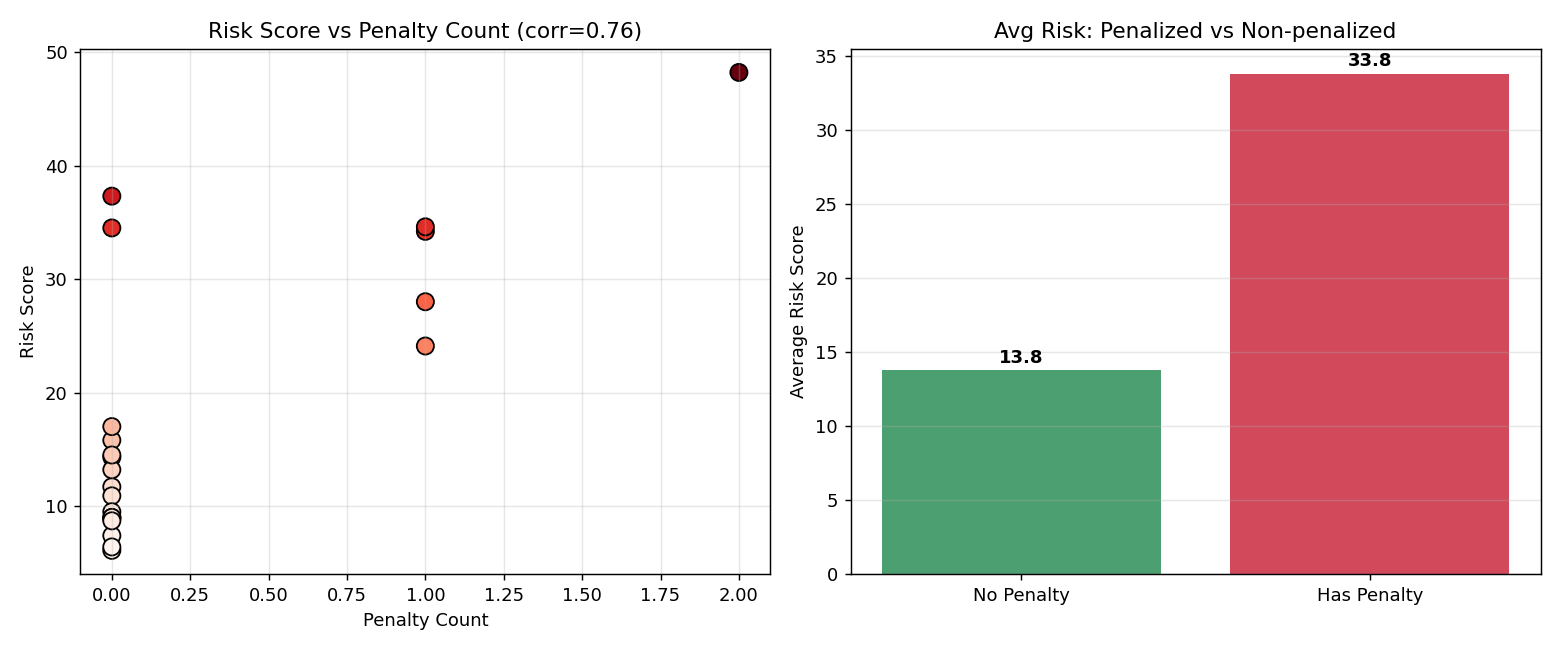
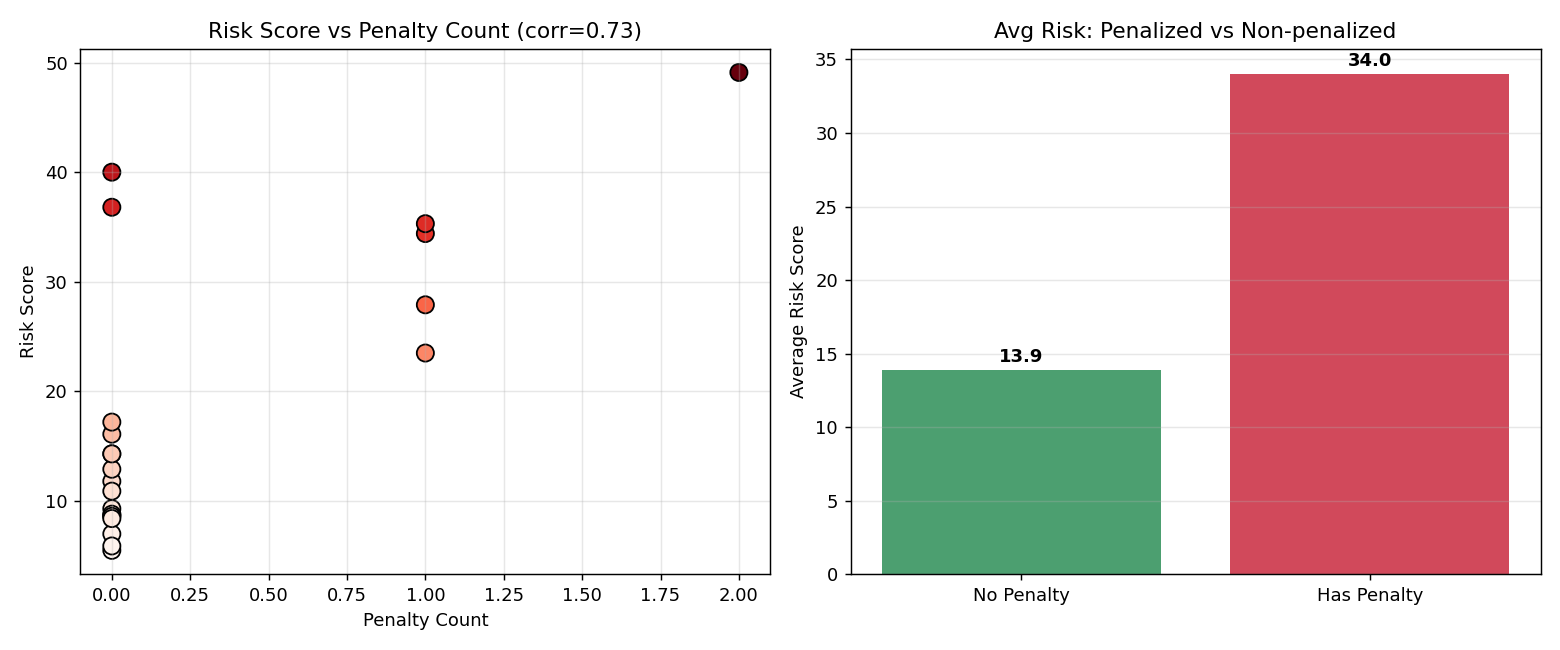
三補強:補5園地址+百分位相對分級(產生高風險園)+輿情降權
- 補瑞芳/金山/土城/蘆洲/新莊地址,22園全上地圖

- 風險等級改百分位相對分級(前15%高),Demo有紅點且學理正當

- 保留絕對門檻risk_level_abs供對照,誠實禁得起追問

- 輿情權重15%降10%,財務升45%,避免預設值稀釋

- 效能穩健:AUC0.906 Recall1.0

diff --git a/src/risk_score.py b/src/risk_score.py
@@ -17,10 +17,10 @@ PROC = os.path.join(ROOT, "data", "processed")
 
 # ---------- 分項權重（可調，簡報時秀這張）----------
 WEIGHTS = {
-    "financial": 0.40,   # 財務異常（鑑識會計三招）
+    "financial": 0.45,   # 財務異常（四層鑑識會計，資料最完整可靠）
     "penalty": 0.30,     # 裁罰紀錄
     "eval": 0.15,        # 評鑑結果
-    "sentiment": 0.15,   # 輿情負面度
+    "sentiment": 0.10,   # 輿情負面度（資料源尚未接入，暫降權重避免稀釋）
 }
 
 
@@ -80,12 +80,31 @@ def score_sentiment(neg_ratio):
     return round(min(float(neg_ratio) * 100, 100), 1)
 
 
-def risk_level(total):
+def risk_level_absolute(total):
+    """絕對門檻分級（保留備用）：≥60高, ≥35中, 其餘低。"""
     if total >= 60:
         return "高"
     if total >= 35:
         return "中"
     return "低"
+
+
+def risk_level_percentile(series):
+    """
+    百分位相對分級（主用）：以全體同儕分布做相對風險等級。
+    前 15% = 高風險（最需優先稽查）、次 35% = 中風險、其餘 = 低風險。
+    學理：同儕比較 (peer benchmarking) + 百分位分級，適合「排序稽查優先序」的目的，
+    不宣稱絕對造假門檻。文獻見 docs/methodology.md 同儕比較段落。
+    """
+    ranks = series.rank(pct=True)  # 0~1，越大分數越高
+
+    def level(r):
+        if r >= 0.85:
+            return "高"
+        if r >= 0.50:
+            return "中"
+        return "低"
+    return ranks.apply(level)
 
 
 EXTERNAL = os.path.join(ROOT, "data", "external")
@@ -131,7 +150,10 @@ def build(df):
         + WEIGHTS["eval"] * df["score_eval"]
         + WEIGHTS["sentiment"] * df["score_sentiment"]
     ).round(1)
-    df["risk_level"] = df["risk_total"].apply(risk_level)
+    # 主用百分位相對分級（確保有高風險園、符合「稽查優先序」目的）
+    df["risk_level"] = risk_level_percentile(df["risk_total"])
+    # 同時保留絕對門檻分級供對照
+    df["risk_level_abs"] = df["risk_total"].apply(risk_level_absolute)
 
     return df.sort_values("risk_total", ascending=False)
 
@@ -151,7 +173,7 @@ def main():
             "iforest_score", "iforest_explain",
             "expense_yoy_pct", "penalty_count", "eval_grade",
             "score_financial", "score_penalty", "score_eval", "score_sentiment",
-            "risk_total", "risk_level"]
+            "risk_total", "risk_level", "risk_level_abs"]
     cols = [c for c in cols if c in out.columns]
     out_path = os.path.join(PROC, "kindergartens.csv")
     out[cols].to_csv(out_path, index=False, encoding="utf-8-sig")

diff --git a/src/geocode.py b/src/geocode.py
@@ -38,6 +38,9 @@ DISTRICT_CENTER = {
     "深坑區": (25.0022, 121.6160), "三芝區": (25.2580, 121.5010),
     "八里區": (25.1510, 121.3980), "萬里區": (25.1790, 121.6890),
     "烏來區": (24.8650, 121.5510),
+    "瑞芳區": (25.1090, 121.8060), "金山區": (25.2220, 121.6360),
+    "土城區": (24.9720, 121.4430), "蘆洲區": (25.0850, 121.4740),
+    "新莊區": (25.0360, 121.4320),
 }
 
 
@@ -54,9 +57,9 @@ def _save_cache(cache):
         json.dump(cache, f, ensure_ascii=False, indent=2)
 
 
-# 新北市地理邊界（收緊，貼合實際轄區）：緯度 24.6~25.35，經度 121.28~121.75
-# 收緊經度上限可濾掉誤匹配到宜蘭/東部的同名 POI
-NTPC_BOUNDS = (24.6, 25.35, 121.28, 121.75)
+# 新北市地理邊界：緯度 24.6~25.35，經度 121.28~122.0
+# 東界放寬至 122.0 以涵蓋東北角(瑞芳/金山/萬里/貢寮)，仍可濾掉多數誤匹配
+NTPC_BOUNDS = (24.6, 25.35, 121.28, 122.0)
 
 
 def _in_ntpc(lat, lng):

diff --git a/docs/methodology.md b/docs/methodology.md
@@ -96,6 +96,15 @@
 是天然的「可比同儕群體 (comparable peer group)」，比跨產業比較更乾淨、更有效。
 因此「某園單位成本或收支比明顯偏離全體同儕」即為合理的風險訊號。
 
+**風險等級的相對分級（百分位）設計**：
+本系統目的是「排出稽查優先序」而非貼絕對造假標籤，故主要採**百分位相對分級**
+（前 15% 高風險、次 35% 中風險、其餘低風險），並保留絕對門檻 (≥60/≥35) 供對照。
+理由：
+1. 稽查資源有限，實務上關鍵是「先查誰」，相對排序比絕對門檻更貼合需求。
+2. 相對分級即同儕比較的延伸，有 PCAOB AS 2305 分析程序的準則精神支撐。
+3. 誠實揭露：目前絕對分級下多數園為中低風險（反映公立園整體相對規矩），
+   待真實裁罰資料接入後絕對高風險園將浮現。兩種分級並存，禁得起評審追問。
+
 ---
 
 ## 方法四：Isolation Forest（孤立森林）+ SHAP 可解釋性 — 進階亮點
